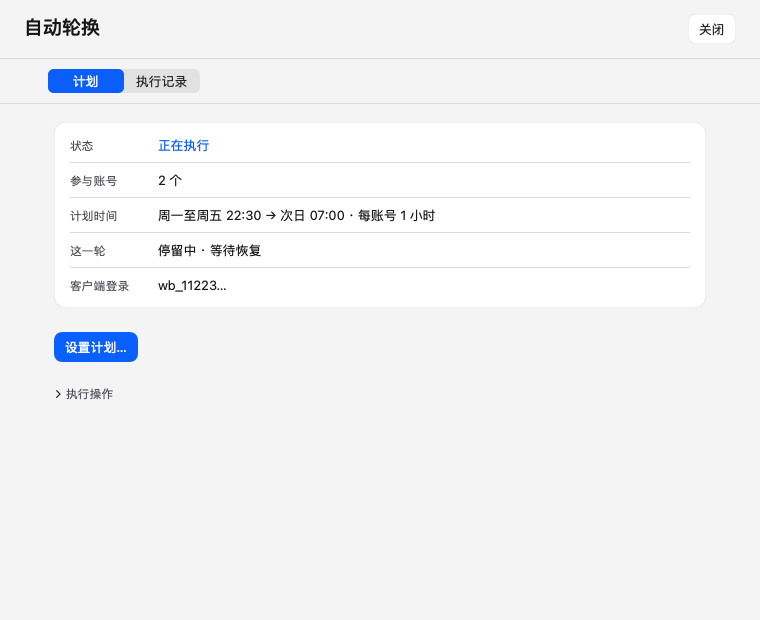
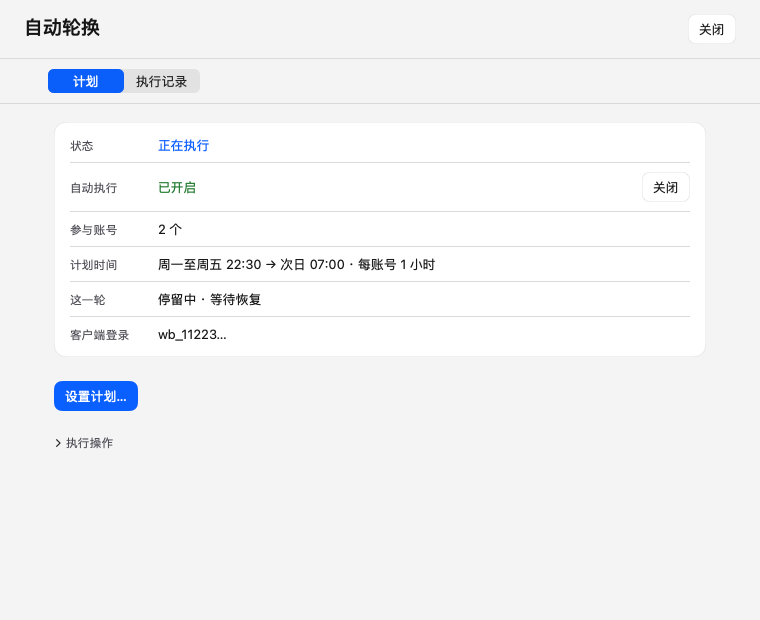
docs(ui): record the rotation switch, preview and stale-state rules
Adds the UI action to production code map, the disable feedback matrix,
the first-enable confirmation, the draft/saved preview boundary and the
new acceptance scenes. Refreshes the stored renders.

diff --git a/docs/UI_V5_AUTOMATION.md b/docs/UI_V5_AUTOMATION.md
@@ -71,13 +71,14 @@
 自动轮换                                  [关闭]
 [计划] [执行记录]
 ──────────────
-计划（概览）      状态 / 参与账号 / 计划时间 / 下次运行 / 这一轮或最近结果 / 客户端登录
+计划（概览）      自动执行 [开启… / 关闭] / 参与账号 / 计划时间 / 下次运行 / 这一轮或最近结果 / 客户端登录
+                  状态（仅执行中、待处理、读取失败时出现）
                   [设置计划…]
                   执行操作 ▸（立即执行 / 暂停并恢复 / 恢复最初账号）
 计划（编辑）      第 1/3 步 · 参与账号
                   第 2/3 步 · 执行时间（星期、起止、停留、时区）
                   第 3/3 步 · 预演与保存
-                  [取消] [上一步] [下一步] / [仅保存] [保存并开启]
+                  [取消] [关闭自动轮换] [上一步] [下一步] / [仅保存] [保存并开启]
 执行记录          筛选（全部/成功/跳过/失败）+ 日期/账号/切换/活跃
 ```
 
@@ -94,7 +95,7 @@
 |---|---|---|
 | 1 参与账号 | 只列 WorkBuddy 国内版；勾选 + 顺序 + 上下移；授权失效的账号显示原因且不可勾选 | 已选中的失效账号仍可取消 |
 | 2 执行时间 | 星期 / 开始 / 结束 / 每账号停留 / 时区 | 时区在这里可改，不再要求先去设置页；跨午夜显示「次日」 |
-| 3 预演与保存 | 账号顺序、窗口、停留、时区、结束动作 + 预演按钮与结果 | 预演是只读 dry-run |
+| 3 预演与保存 | 账号顺序、窗口、停留、时区、结束动作 + 预演按钮与结果 | **预演只针对已保存计划**；草稿有改动时按钮禁用，先「仅保存」 |
 
 ### 4.4 保存并开启的执行顺序
 
@@ -112,6 +113,9 @@
 
 - 服务端状态刷新只在**没有编辑**时重置草稿；编辑中的表单不会被覆盖。
 - 关闭或切到「执行记录」时若有未保存修改，先弹「放弃未保存的修改？」。
+- **确认关闭 = 真的关闭窗口**；取消 = 留在原处并保留内容。
+- **确认切 tab = 切到执行记录**；取消 = 回到「计划」的编辑页，不会停在执行记录。
+- 保存执行中禁止关闭/切 tab（按钮禁用 + `RotationLeavePolicy` 忽略），避免丢状态。
 - 底部常驻「有未保存的修改」提示。
 
 ## 5. 旧功能 → 新入口映射
@@ -124,7 +128,7 @@
 | 账号页「WorkBuddy 登录与夜间轮换」 | 同一按钮 → 轮换管理 | 落点改为概览 |
 | 账号页客户端卡「管理 / 去处理」 | 轮换管理（`去处理` → 恢复异常焦点） | 仍是同一个界面 |
 | 总览「轮换未恢复 / 状态无法确认」 | 轮换管理（`recovery` 焦点） | 打开即见恢复警告与按钮 |
-| 设置 → 高级与诊断 → 账号轮换时区 | 保留 | 与计划同一份后端数据；轮换管理里也能改同一字段 |
+| 设置 → 高级与诊断 → 账号轮换时区 | **改为只读** | 显示服务端当前值和「去哪里改」；唯一编辑入口是轮换管理，避免两处各改一份 |
 | 旧弹层的一次性导航信号 | `ConsoleNavigation.requestRotationManager(focus:)` | 带 token，同一次请求只消费一次 |
 
 ## 6. 只读与写请求边界
@@ -151,10 +155,13 @@
 |---|---|
 | 读不到轮换状态 | 状态「读取失败」、计划时间 `—`、主按钮禁用、提示 + 重试；不显示「未开启」 |
 | 读不到签到 / 成长自动状态 | 行显示「读取失败」+ 原因；不显示「未开启」 |
+| 有缓存但最新读取失败 | 行显示「上次：已开启 … · 当前无法确认」，警告色；不展示过期「下次执行」 |
+| 关闭计划时这一轮还在收尾 | 状态「正在停止」，自动执行「未开启」，等轮次终态后才能再开启 |
+| 恢复失败但计划已关闭 | 仍然警告「需要恢复」，摘要写「已关闭 · 需要恢复」，不反推计划仍在运行 |
 | 保存失败 | 停在编辑页、保留表单、底部红条说明「设置没有改动」，不调用 enable |
 | 启用失败 | 回读服务端状态后显示失败，不显示「已开启」 |
 | 恢复异常 | `attentionRun` 优先于 `current`；`current == nil` 也要出现警告 |
-| 停止请求 | `stop_requested` 显示「当前操作结束后会自动恢复」，不宣称已恢复 |
+| 停止请求 | `stop_requested` 显示「已请求停止，会在安全收尾后恢复」，不宣称已恢复 |
 | 未配置 | 「还没有设置自动轮换」+ 设置按钮，执行区隐藏 |
 | 配置后关闭 | 概览显示「未开启」但与「未配置」区分（仍显示账号数与计划时间） |
 
@@ -172,7 +179,7 @@
 10. 不自动发送聊天、不伪造使用行为。
 11. 离屏测试不操作真实客户端。
 
-危险操作仍各自确认：立即执行、暂停并恢复、恢复最初账号、放弃未保存修改、轮换开启（保存并开启的语义已在流程内保证顺序）。
+危险操作仍各自确认：**首次开启（关闭→开启）**、立即执行、暂停并恢复、恢复最初账号、放弃未保存修改。
 
 ## 9. 截图
 
@@ -188,15 +195,19 @@
 | 轮换概览（已关闭） | `rotation-off-760x620-light` |
 | 轮换概览（未配置） | `rotation-empty-760x620-light` |
 | 轮换概览（读取失败） | `rotation-error-760x620-light` |
-| 轮换概览（需要恢复） | `rotation-recovery-760x620-light/dark` |
+| 轮换概览（缓存在、最新读取失败） | `rotation-stale-760x620-light/dark` |
+| 轮换概览（需要恢复，计划开启/关闭） | `rotation-recovery-760x620-light/dark`、`rotation-recovery-closed-760x620-light/dark` |
+| 关闭后正在收尾 | `rotation-disable-waiting-760x620-light/dark` |
 | 执行记录 | `rotation-history-760x620-light` |
 | 编辑第 1/2/3 步 | `rotation-setup-*` |
+| 草稿未保存（预演禁用） | `rotation-preview-dirty-760x620-light/dark` |
+| 已开启 + 未保存修改（仍可直接关闭） | `rotation-setup-enabled-dirty-760x620-light` |
 | 保存失败 / 启用失败 | `rotation-save-failed-*` / `rotation-enable-failed-*` |
 | 无可用账号 | `rotation-setup-no-account-760x620-light` |
 
 系统 `alert` / `confirmationDialog` 无法真实离屏渲染，因此没有伪造截图；确认文案与触发条件由模型测试和源码核验覆盖（`RotationSaveFlow`、`RotationFeedbackText`、`runNow` / `restore` 的 alert）。
 
-仓库内保存 17 张（`docs/console-v5/automation/after/`）；完整 126 张由 CI Artifact `console-ui-visuals` 承载。
+仓库内保存 32 张（`docs/console-v5/automation/after/`）；完整 137 张由 CI Artifact `console-ui-visuals` 承载。
 
 改造前对照（旧单页弹层，来自 #115 验收集）：
 
@@ -205,21 +216,37 @@
 
 ## 10. 测试与 CI
 
-### 10.1 新增测试
+### 10.1 测试
 
 | 文件 | 用例 | 覆盖 |
 |---|---:|---|
-| `AutomationCenterTests` | 24 | 五类状态派生（未知/读取中/失败/关闭/开启/执行中）、Credits 只计支持账号、轮换概览（未配置/关闭/开启/恢复异常/未知）、草稿脏判定与排序稳定、`params` 键与顺序、保存并开启四条分支、关闭不需要保存、停止的异步语义、星期与时间文案 |
-| `ConsoleNavigationTests` | 7（原 4） | 三个入口共用一次性请求、token 每次变化、任务中心模式切换不产生请求、自动计划的管理路由 |
+| `AutomationCenterTests` | 33 | 五类状态派生（未知/读取中/失败/关闭/开启/执行中/**缓存+失败**）、Credits 只计支持账号、轮换概览（未配置/关闭/开启/恢复异常/正在停止/未知）、恢复异常按 `plan.enabled` 区分、`planKey` 覆盖全部预演字段、预演态四条分支、草稿脏判定与排序稳定、`params` 键与顺序、保存并开启四条分支、关闭不需要保存、离开策略（关闭/切 tab/取消编辑 × 脏/保存中）、星期与时间文案 |
+| `RotationManagerModelTests` | 21 | **生产控制路径**：关闭不保存无效表单、执行中仍可关闭、关闭失败回读、开启先保存再启用、保存失败不启用、Worker 不可用不伪装成功、首次开启确认（取消零请求/确认后才执行/已开启不再问）、放弃修改后真正关闭、取消关闭保留内容、切 tab 先确认且取消回原页、无修改直接离开、保存中拒绝导航、预演与草稿一致性、焦点落点 |
+| `WorkbuddyRotationFeedbackTests` | 8 | 执行/停止文案语义；关闭计划后「另一操作占锁 / 停止请求 / 已恢复 / 恢复失败 / 无事可停」分别反馈；`stop_requested` 不得出现「已恢复」 |
+| `ConsoleNavigationTests` | 7 | 三个入口共用一次性请求、token 每次变化、任务中心模式切换不产生请求、自动计划的管理路由 |
 
-本机没有 XCTest，使用一份 XCTest 替身编译并**真跑**了两套模型测试：`AutomationCenterTests` 24 个（117 断言）与 `SettingsCenterTests` 31 个（183 断言），0 失败；最终以 CI `swift-test` 为准。
+本机没有 XCTest，使用一份 XCTest 替身编译并**真跑**了本次受影响的三套测试：
+`AutomationCenterTests` + `RotationManagerModelTests` + `WorkbuddyRotationFeedbackTests` 共 62 个用例（334 断言），
+以及 `SettingsCenterTests` + `ConsoleNavigationTests` 共 41 个用例（216 断言），全部 0 失败。
+最终以 CI `swift-test` 为准。
 
-### 10.2 CI
+### 10.2 UI 操作 → 生产代码绑定
 
-- 分支 HEAD `1f6cdb8`，run `44905511384`：`changes` / `swift-test` / `macos-build` 全部 **success**；
-  其余 job 因路径过滤为 skipped（`rust` / `android` / `test` / `lint` 本轮未改动对应文件），`macos-dmg` 在 PR 上按设计跳过。
-- `swift-test` 内：`swift test` 通过（含本 PR 新增的 31 个用例），控制台离屏渲染 126 张并上传 artifact `console-ui-visuals`。
-- 基线：#118 合并后 main CI `44902417879` 9 个 job 全部 success（含 macos-dmg）。
+| 界面操作 | 代码路径 |
+|---|---|
+| 概览「关闭」/「开启…」 | `RotationManagerView.autoRunRow` → `RotationManagerModel.requestPlanEnabled` → `setPlanEnabled` → `RotationPlanControl.setPlanEnabled` → `ConsoleStore.setWorkbuddyRotationEnabled` |
+| 编辑底部「关闭自动轮换」 | 同上，`dirty` 为 true 时仍只走 `[.apply]` |
+| 「保存并开启」（首次） | `requestSaveAndEnable` → `pendingEnable = .saveAndEnable` → alert → `confirmFirstEnable()` → `performSave(enable: true)` |
+| 「仅保存」 | `requestSaveOnly` → `performSave(enable: false)` → `RotationSaveFlow.steps == [.save]` |
+| 第三步「预演已保存计划」 | `onPreview` → `previewSavedPlan`（`preview.canPreview` 为 false 时不发 RPC）→ `ConsoleStore.previewWorkbuddyRotation` → 记录 `wbRotationDryRunPlanKey` |
+| 关闭窗口 / 切 tab | `requestClose` / `requestTab` → `RotationLeavePolicy.decide` → `pendingLeave` → `confirmLeave` / `cancelLeave` |
+| 概览开关失败 | `RotationPlanControl` 返回 `.applyFailed` → 已 `reload` → `ConsoleStore` 的 notice 显示真实原因 |
+
+系统 `alert` / `confirmationDialog` 无法离屏渲染，因此没有伪造截图；文案与触发条件由上述模型测试覆盖。
+
+### 10.3 CI
+
+（以本轮最终 run 为准，提交后补。）
 
 ## 11. 尚未验证的真实客户端场景
 
@@ -227,3 +254,78 @@
 - 真实唤醒/休眠、客户端正在使用时的空闲判定。
 - 真实保存失败与启用失败的服务端返回（界面路径用模型测试覆盖）。
 - 真实 Magpie 临时授权剩余时长的预演警告。
+- 系统原生弹窗的实际点击顺序无法离屏渲染；只由模型测试 + 绑定不允许在 `set(false)` 里取消来保证。
+
+## 12. 最终交互安全收口
+
+本轮只修交互与状态一致性，不改视觉结构、调度、RPC、存储。
+
+### 12.1 P0-1 重新可以关闭自动轮换
+
+- 概览新增「自动执行」行：`开启… / 关闭` + 当前值。
+- 关闭直接调用既有 `workbuddy.rotation.setEnabled(false)`；**关闭永远不保存表单**（`RotationPlanControl.steps(enabled:false,*) == [.apply]`）。
+- 编辑页底部也提供「关闭自动轮换」，不受未保存/无效草稿阻挡。
+- 关闭后按服务端 `stopResult` 分开反馈：
+
+| stopResult | 文案 | 失败？ |
+|---|---|---|
+| `nothing_to_stop` | 计划已关闭；当前没有正在执行的一轮。 | 否 |
+| `busy` | 计划已关闭；另一个轮换操作仍在执行，结束后会恢复原账号。 | 否 |
+| `stop_requested` / `restoring` | 计划已关闭；已请求停止这一轮，会在当前操作安全收尾后恢复原账号。 | 否 |
+| `restored == true` | 计划已关闭，并且已恢复原账号。 | 否 |
+| `restored == false` | 计划已关闭，但原账号没能自动恢复；请点「恢复最初账号…」并确认。 | 是 |
+
+- Worker 不可用：`setWorkbuddyRotationEnabled` 返回 false → 回读状态 → 显示失败；开关不会看起来变过。
+- 本轮还在收尾时「开启…」禁用，避免和 stop 语义打架。
+
+### 12.2 P0-2 预演不再冒充草稿验证
+
+服务端 `rotation.dry_run` 读 SQLite 里的**已保存计划**，不接受草稿。界面现在：
+
+1. 第三步标题区分「已保存的配置」/「未保存的配置（本地摘要）」。
+2. 草稿有改动（账号、顺序、时间、停留、时区任一变化，由 `planKey` 判定）时：
+   - 预演按钮禁用；
+   - 不展示任何旧的预演结果；
+   - 明确写「服务端预演只读已保存的计划，先仅保存，再预演」；
+   - 若计划已开启，追加「保存会立即改变正在生效的配置」。
+3. 只有 `dryRunPlanKey == 已保存计划.planKey` 才展示结果，并注明「不代表真实切换一定成功」。
+4. 保存后 `planKey` 变化，旧结果自动过期；改回原值仍然有效。
+5. 不为预演偷偷保存：预演前不调用 `save`。
+
+### 12.3 P1-1 首次开启确认
+
+- 计划本来关闭时，「开启…」与「保存并开启」都先弹确认：
+  关闭并重启 WorkBuddy、可能影响正在使用的工作、AICC 未运行/Mac 休眠不能保证执行、恢复失败需人工处理。
+- 取消不保存、不启用（测试断言 `calls.isEmpty`）。
+- 计划已开启时保存不再弹确认。
+
+### 12.4 P1-2 读取失败保留缓存但不冒充正常
+
+- `AutomationState` 增加 `.stale(previous:reason:)`：显示「上次：…」，摘要追加「当前无法确认」，色调 warning。
+- 缓存中的「下次执行」不再显示。
+- 无缓存 + 失败仍是「读取失败」；读取中不显示为「未开启」。
+- 覆盖签到、成长、旅行、Credits、轮换五类。
+
+### 12.5 P1-3 离开编辑
+
+`RotationLeavePolicy`（关闭 / 切 tab / 取消编辑 × 脏 / 保存中）：
+
+| 情况 | 行为 |
+|---|---|
+| 无修改 | 直接关闭或切换 |
+| 有修改 | 先确认；取消保持原样 |
+| 确认关闭 | `closeRequested` → 视图 `dismiss()`，真正关窗 |
+| 确认切 tab | 退出编辑并切到目标 tab |
+| 保存中 | 忽略一切导航（按钮也禁用） |
+
+绑定的 `set(false)` 不做取消动作，避免 SwiftUI 在按钮动作前清掉待办。
+
+### 12.6 P1-4 恢复异常不再反推计划在跑
+
+`RotationOverview.compactSummary` 按 `plan.enabled` 输出「已开启 · 需要恢复」或「已关闭 · 需要恢复」；
+顶部横幅也写「（计划已关闭）」。另补「已关闭 · 正在停止」状态。
+
+### 12.7 P2 时区入口
+
+设置 → 高级与诊断 → 账号轮换时区改为只读：显示服务端值 + 「在任务中心 → 自动计划 → 客户端轮换里修改」。
+删除 `SettingsModel.saveRotationTimezone`，确保没有第二个写入口。后端存储与计算未改。
